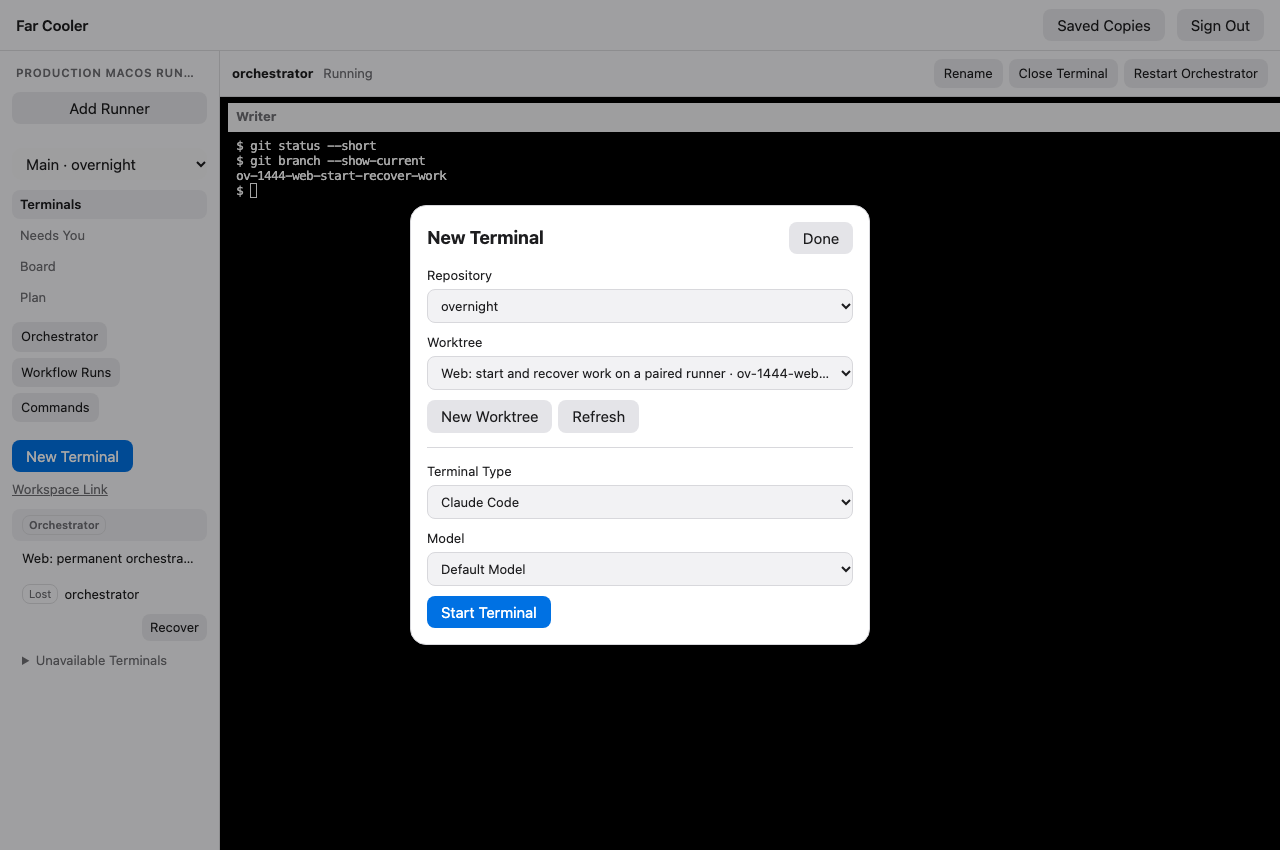
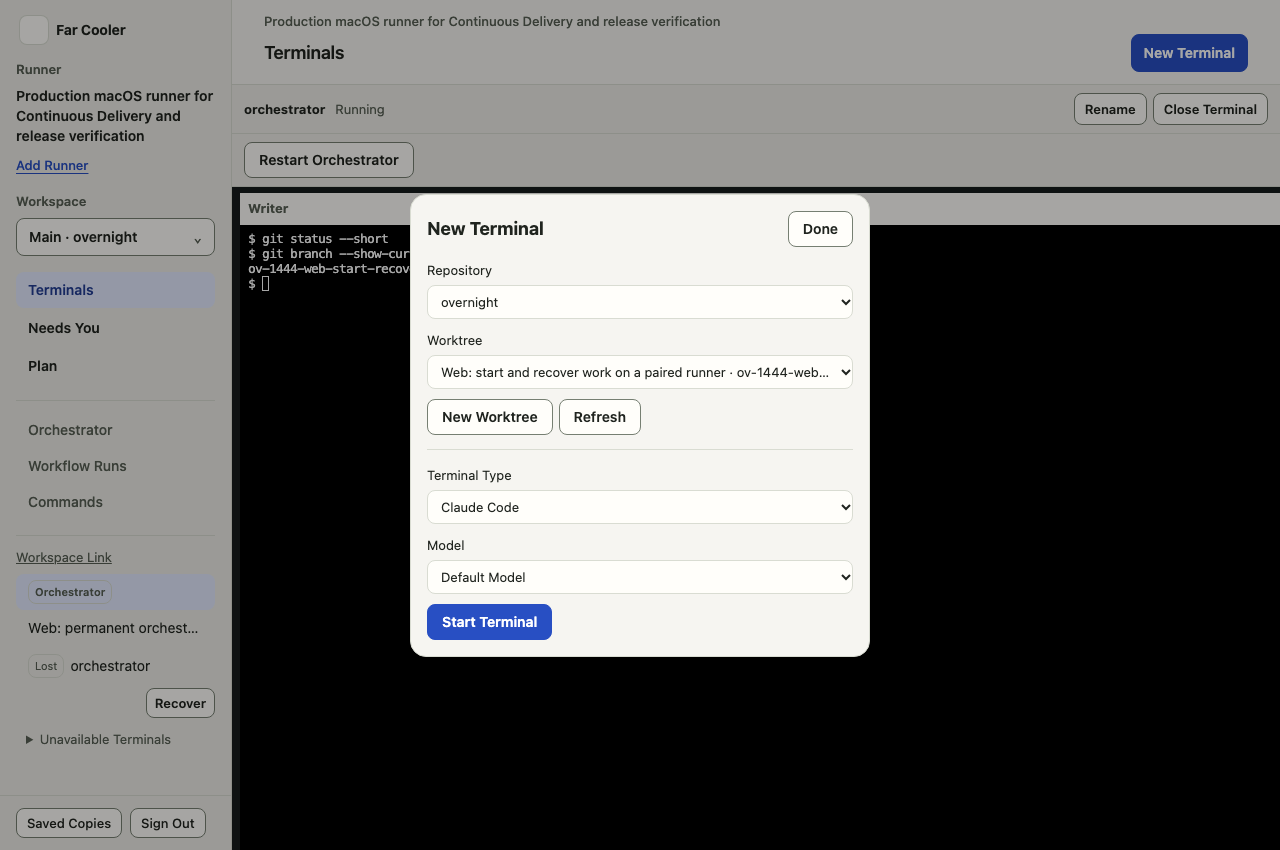
ov-1491: Report the rebase onto 8d8a2f2b7, with new captures
(cherry picked from commit 10ecf7f95e2962966c7a999f49a7cdda4956d283)

diff --git a/reports/ov-1491/README.md b/reports/ov-1491/README.md
@@ -23,32 +23,46 @@ The Rust work view (`crates/client/src/work_view.rs`) decides what's offered, wh
 
 Restarting a terminal that keeps its ID, such as the running orchestrator, removed its pane and attached nothing in its place. The page's layout looked unchanged, so it skipped the attach. The Work suite's stand-in page reattaches by itself and passed. The two-runner walk failed until `WorkspacePanes.forget` was fixed.
 
-## Tests
+## Rebased onto `8d8a2f2b7`
 
-The browser walk against two real Rust runners (`csp-check.mjs --workday-runner`) gained four scenarios. Keystrokes and restarts are read back through the runner's CLI.
+The new base brought the React shell (ov-1510) and moved terminal input into the Rust core (ov-1499). Fitting these controls in changed four things:
 
-| Scenario | Old page (`edf1f42fa`) | This branch |
+- The pane's Recover button now sits in the shell's recovery strip, with the reason under it.
+- A view has one filled button. A restart takes it from **New Terminal** only when it can be pressed and interrupts nothing. For a running orchestrator the strip matches the terminal header instead of looking like a warning. My first merge left it see-through over the dark terminal, which the captures showed. The Work suite now checks its color.
+- Both branches had added a field called `watching` to `WorkspacePanes`. Git merged them cleanly, and TypeScript caught it. This branch's is now `viewing`.
+- The Work suite's test page sent a pane's errors and the work view's note to one element, so this branch's redraw erased the base's "Keys … were not sent". The app uses two elements, and the test page now does too.
+
+## The two-runner walk fails on the base
+
+`csp-check.mjs --workday-runner` stops at line 1498: after the fixture opens a landing, the Plan never shows **Checking Here**. It shows only Backlog and To Do. The untouched base, built on its own, stops at the same line. This branch doesn't change the Plan, and I didn't fix it or look for the cause.
+
+This ticket's four scenarios come after that step, so **the committed walk doesn't reach them until the base is fixed**. CI runs this walk. For the results below I removed the Plan landing step from a temporary copy. Everything else in the walk passed, with no CSP violations. The walk's "followed the runner's landing in Plan" log line still printed, but that part didn't run.
+
+| Scenario | Base page (`8d8a2f2b7`) | This branch |
 | --- | --- | --- |
 | Open a shell in a chosen worktree and type in it | passes (it could already) | passes |
 | Restart a shell whose process exited | fails: no Restart Terminal | passes |
 | Start Claude Code with Sonnet | fails: no Model choice | passes |
 | Restart the running orchestrator, then type in it | fails: no Restart Orchestrator | passes |
 
-Recovering a lost terminal shipped before this ticket, so its tests pass on both pages. It's walked on the real runners (the lost agent in the workday walk) and in the Work suite.
+For the base page, the temporary copy also used the old **Start Work** dialog name, so each scenario failed on its own control. Both columns used this branch's runner binaries. Keystrokes and restarts are read back through the runner's CLI. Agents on these runners are the daemon's stub, so no real Claude or Codex ran.
 
-For the old page, a temporary copy of the walk looked for the old **Start Work** dialog name, so each scenario failed on its own control. Agents on these runners are the daemon's stub, so no real Claude or Codex ran.
+Recovering a lost terminal shipped before this ticket, so its tests pass on both pages. It's walked on the real runners and in the Work suite.
 
-Read-only and viewer states are shown by the Work browser suite (`work-check.mjs`, 29 passing). It uses the real Rust projection with a stand-in runner. The member refusal is shown there, in the core's tests, and in a runner test that compares each listed terminal's word with the permission check (`a_listed_terminal_says_whether_this_caller_may_restart_it`). No browser test signs in to a real runner as a member or read-only.
+## Tests
 
-Also passing on this Mac: the `farcooler-client`, `farcooler-cli` and `farcooler-protocol` tests; the daemon's library tests matching people, rpc, wire, terminal, Claude login, lead change, reps and Needs You (501); `rpc_over_socket`; the web crate; the web unit tests; both TypeScript checks; the Board browser check; the fake-daemon security walk with a 100 ms tunnel delay; the split-pane sleep check; the canary size gate; and the shared-core, copy, file-size, doc-comment, daemon-layer, capability-name and proto lints. Clippy reported nothing in the touched files. The CLI and client tests need the agent pane's `FARCOOLER_*` variables cleared, or their hook tests fail.
+Read-only and viewer states are shown by the Work browser suite (`work-check.mjs`, 32 passing). It uses the real Rust projection with a stand-in runner. The member refusal is shown there, in the core's tests, and in a runner test (`a_listed_terminal_says_whether_this_caller_may_restart_it`). No browser test signs in to a real runner as a member or read-only.
 
-Not run: CI, Linux, the stable bundle, the full daemon suite and the landing gate.
+Passing on this Mac after the rebase:
 
-## Rechecked after the interrupted step
+- the `farcooler-client`, `farcooler-cli` and `farcooler-protocol` tests (1303), the web crate tests, and `rpc_over_socket` (90);
+- the daemon library tests matching people, rpc, wire, terminal, Claude login, lead change, reps and Needs You. Two database recovery tests failed in that run of 504 (the filter reaches them because "prepares" contains "reps"). All 15 recovery tests passed when run alone, and this branch doesn't touch that code;
+- the web unit tests (268, and 50 for Needs You) and both TypeScript checks;
+- the Work, Board, shell, chat and chat-files browser checks;
+- the fake-runner walk with a 100 ms tunnel delay, the split-pane sleep check and the canary size gate;
+- the shared-core, web client tree, copy, file-size, doc-comment, daemon-layer, capability-name and proto lints. Clippy reported nothing in the touched files.
 
-A runner restart interrupted the build step. After it resumed, these ran again on the same code and passed: the `farcooler-client`, `farcooler-protocol` and `farcooler-cli` tests; the daemon library tests under the filters above, and `rpc_over_socket`; both TypeScript checks; the web unit tests (263); the Work and Board browser suites; the canary bundle's size gate; the two-runner walk; and the shared-core, copy, doc-comment, daemon-layer, capability-name, file-size and proto lints. The old-page comparison was rebuilt from `edf1f42fa` with the same runner binaries and gave the table's result. The web crate tests, the fake-daemon walk, the sleep check and Clippy weren't run again.
-
-The shell needs an arm64 Node first on `PATH`; the default one here is x86_64 and doesn't start.
+Not run: CI, Linux, the stable bundle, the full daemon suite, the review browser check (it needs its own fixture) and the landing gate. The CLI and client tests need the agent pane's `FARCOOLER_*` variables cleared, and some client tests need `farcoolerd` built first.
 
 ## Captures
 
